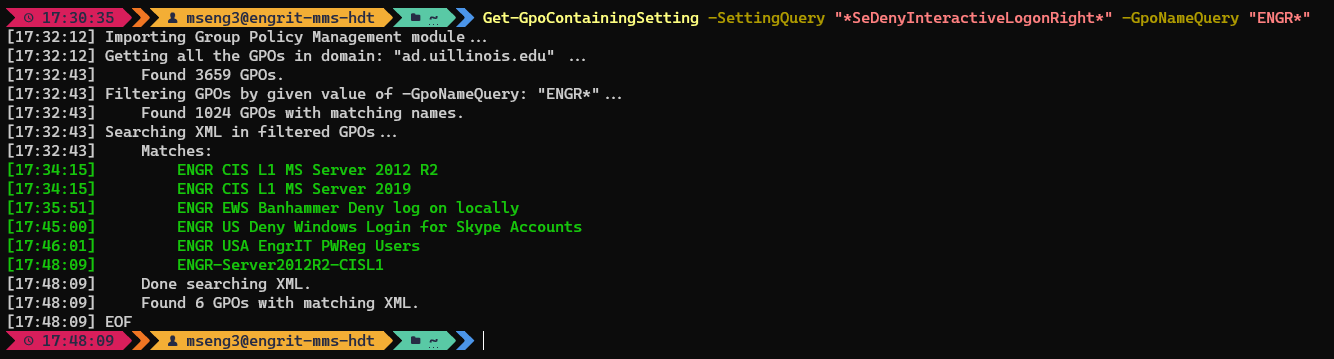
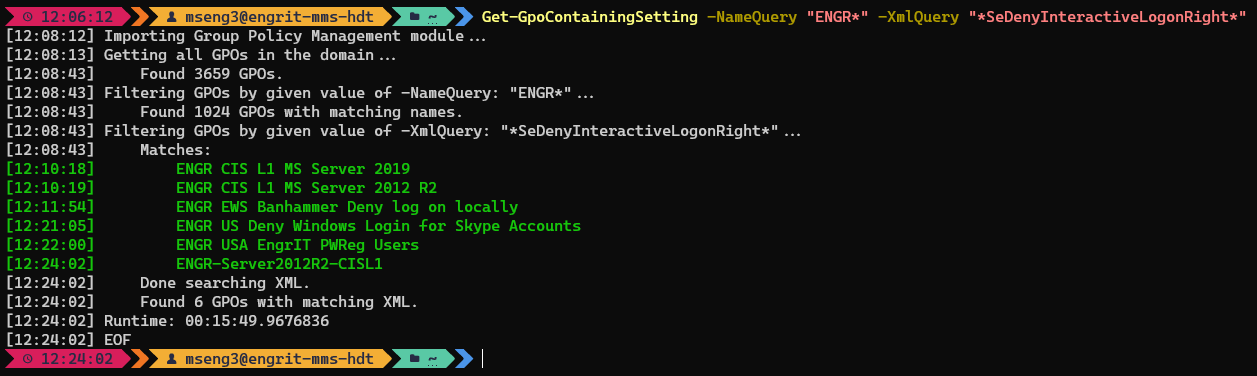
Update readme and screenshots for changed parameter names

Changed region(s): [[0.0, 0.0, 0.9928, 0.9805]]

diff --git a/README.md b/README.md
@@ -13,14 +13,14 @@ Useful to discover which GPOs implement a given setting.
 
 ### Search for GPOs named like `ENGR*` which implement the "Deny log on locally" setting
 ```powershell
-Get-GpoContainingSetting -SettingQuery "*SeDenyInteractiveLogonRight*" -GpoNameQuery "ENGR*"
+Get-GpoContainingSetting -NameQuery "ENGR*" -XmlQuery "*SeDenyInteractiveLogonRight*"
 ```
 
 <img src='./example-output1.png' />
 
 ### Silently search for GPOs named like `ENGR EWS*` which contain the string `*ews-banhammer*` in their XML, and return the entire GPO object
 ```powershell
-Get-GpoContainingSetting -SettingQuery "*ews-banhammer*" -GpoNameQuery "ENGR EWS*" -Quiet -PassThru -PassThruFull
+Get-GpoContainingSetting -NameQuery "ENGR EWS*" -XmlQuery "*ews-banhammer*"  -Quiet -PassThru -PassThruFull
 ```
 
 <img src='./example-output2.png' />
@@ -38,7 +38,7 @@ Note that specific settings are referred to in a GPO's XML using an internal nam
 Optional string.  
 The wildcard query used to filter all retrieved GPOs before searching through their XML.  
 Default is `*` (i.e. all GPOs in the domain).  
-Note: it's highly recommended to filter GPOs as much as possible to reduce runtime. The search may take on the order of ~20 minutes when filtered down to ~1000 GPOs.  
+Note: it's highly recommended to filter GPOs as much as possible to reduce runtime. Expect a search of ~1000 name-matched GPOs to take on the order of ~20 minutes.  
 
 ### -Domain \<string\>
 Optional string.  
